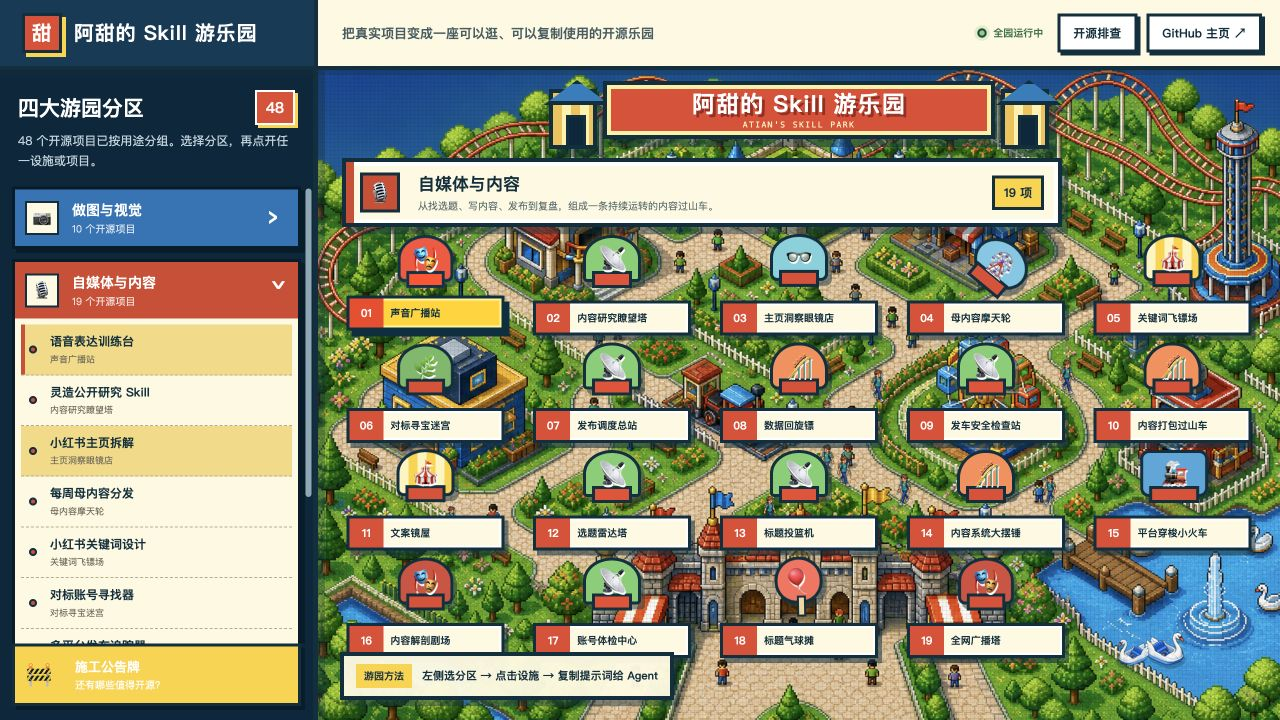
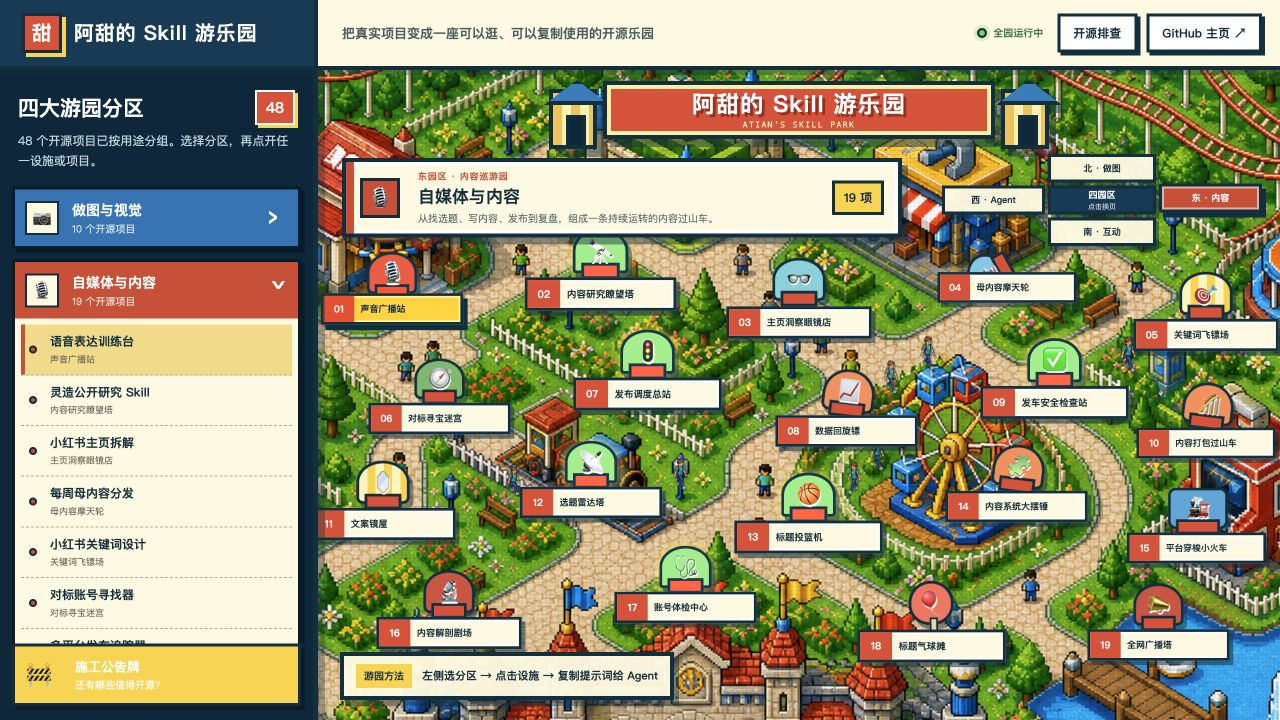
把 Skill 游乐园拆成四个方向园区 (#3)

diff --git a/src/style.css b/src/style.css
@@ -95,10 +95,15 @@ button:focus-visible, a:focus-visible { outline: 4px solid white; box-shadow: 0 
   min-width: 0;
   overflow: hidden;
   isolation: isolate;
-  background: #1876b2 url('./assets/atian-park-world.png') center center / cover no-repeat;
+  background: #1876b2;
   image-rendering: auto;
 }
+.park-map::before { content: ''; position: absolute; inset: -3%; z-index: 0; background: url('./assets/atian-park-world.png') center / 128% auto no-repeat; transition: background-position .55s ease, filter .55s ease, transform .55s ease; }
 .park-map::after { content: ''; position: absolute; inset: 0; z-index: 1; pointer-events: none; background-image: linear-gradient(rgba(6,47,61,.06) 1px, transparent 1px), linear-gradient(90deg, rgba(6,47,61,.06) 1px, transparent 1px); background-size: 4px 4px; mix-blend-mode: multiply; }
+.park-map[data-district="visual"]::before { background-position: 14% 18%; filter: saturate(1.08) brightness(1.02); transform: scale(1.02); }
+.park-map[data-district="media"]::before { background-position: 86% 22%; filter: saturate(1.14) contrast(1.02); transform: scale(1.06); }
+.park-map[data-district="agent"]::before { background-position: 16% 82%; filter: saturate(.92) hue-rotate(7deg); transform: scale(1.05); }
+.park-map[data-district="interactive"]::before { background-position: 84% 84%; filter: saturate(1.2) brightness(1.03); transform: scale(1.03); }
 
 .park-gate { position: absolute; z-index: 24; top: 11px; left: 50%; width: min(500px, calc(100% - 42px)); height: 68px; display: grid; grid-template-columns: 54px 1fr 54px; align-items: end; transform: translateX(-50%); filter: drop-shadow(7px 8px 0 rgba(6,47,61,.48)); }
 .park-gate > div { position: relative; align-self: start; display: grid; place-items: center; min-height: 54px; border: 4px solid var(--ink); padding: 6px 14px; background: var(--red); color: white; box-shadow: inset 0 0 0 4px #ffef9f; text-align: center; }
@@ -110,19 +115,37 @@ button:focus-visible, a:focus-visible { outline: 4px solid white; box-shadow: 0 
 .gate-tower::after { content: ''; position: absolute; left: 13px; bottom: 0; width: 14px; height: 27px; border: 3px solid var(--ink); border-bottom: 0; background: var(--navy-deep); }
 .gate-tower--right { justify-self: end; }
 
-.zone-banner { position: absolute; z-index: 20; top: 88px; left: 24px; right: 24px; max-width: 720px; display: grid; grid-template-columns: 46px 1fr auto; align-items: center; gap: 12px; border: 4px solid var(--ink); padding: 10px 14px; background: var(--cream); box-shadow: inset 0 0 0 4px white, 6px 7px 0 rgba(6,47,61,.45); }
+.zone-banner { position: absolute; z-index: 20; top: 88px; left: 24px; width: min(560px, calc(100% - 370px)); display: grid; grid-template-columns: 46px 1fr auto; align-items: center; gap: 12px; border: 4px solid var(--ink); padding: 8px 14px; background: var(--cream); box-shadow: inset 0 0 0 4px white, 6px 7px 0 rgba(6,47,61,.45); }
 .zone-banner::before { content: ''; position: absolute; left: 0; top: 0; bottom: 0; width: 8px; background: var(--zone); }
 .zone-banner > span { width: 40px; height: 40px; display: grid; place-items: center; border: 3px solid var(--ink); background: var(--zone); font-size: 21px; }
-.zone-banner b, .zone-banner small { display: block; }
+.zone-banner em, .zone-banner b, .zone-banner small { display: block; }
+.zone-banner em { margin-bottom: 2px; color: var(--zone); font-size: 9px; font-style: normal; font-weight: 900; letter-spacing: .08em; }
 .zone-banner b { font-size: 17px; }
 .zone-banner small { margin-top: 3px; font-size: 10px; line-height: 1.4; opacity: .72; }
 .zone-banner strong { border: 3px solid var(--ink); padding: 6px 9px; background: var(--yellow); font-size: 12px; white-space: nowrap; }
 
-.facility-layer { position: absolute; z-index: 12; inset: 165px 18px 62px; display: grid; grid-template-columns: repeat(5, minmax(105px, 1fr)); grid-auto-rows: minmax(86px, 1fr); gap: 7px 8px; align-content: stretch; }
-.facility { position: relative; min-width: 0; min-height: 82px; border: 0; background: transparent; transform: translateY(calc((var(--i) % 3) * 3px)); }
+.district-switcher { position: absolute; z-index: 23; top: 84px; right: 18px; width: 320px; height: 92px; display: grid; grid-template-columns: 1fr 1.05fr 1fr; grid-template-rows: repeat(3, 1fr); gap: 3px; pointer-events: none; }
+.district-link { min-width: 0; display: grid; place-items: center; border: 3px solid var(--ink); padding: 2px 5px; background: rgba(255,249,223,.96); box-shadow: 3px 4px 0 rgba(6,47,61,.5); color: var(--ink); pointer-events: auto; transition: transform .18s, background .18s; }
+.district-link span, .district-link small { display: block; white-space: nowrap; }
+.district-link span { font-size: 9px; font-weight: 900; }
+.district-link small { display: none; }
+.district-link:hover { z-index: 2; transform: translateY(-2px); background: var(--yellow); }
+.district-link.is-current { background: var(--district-color); color: white; box-shadow: inset 0 0 0 2px rgba(255,255,255,.55), 4px 5px 0 var(--ink); }
+.district-link--visual { grid-column: 2; grid-row: 1; }
+.district-link--agent { grid-column: 1; grid-row: 2; }
+.district-link--media { grid-column: 3; grid-row: 2; }
+.district-link--interactive { grid-column: 2; grid-row: 3; }
+.district-center { grid-column: 2; grid-row: 2; display: grid; place-items: center; border: 3px solid var(--ink); background: var(--navy); color: white; box-shadow: 3px 4px 0 rgba(6,47,61,.5); text-align: center; pointer-events: none; }
+.district-center b, .district-center small { display: block; }
+.district-center b { font-size: 9px; }
+.district-center small { font-size: 7px; opacity: .72; }
+
+.facility-layer { position: absolute; z-index: 12; inset: 170px 8px 60px; }
+.facility { position: absolute; left: var(--x); top: var(--y); width: 168px; height: 86px; border: 0; background: transparent; transform: translate(-50%, -50%) scale(var(--s)); transform-origin: center; }
+.district-arrive .facility { animation: facility-arrive .38s both; animation-delay: calc(var(--i) * 14ms); }
 .facility-model { position: absolute; z-index: 1; left: 50%; top: 0; width: 58px; height: 47px; display: grid; place-items: center; transform: translateX(-50%); border: 3px solid var(--ink); border-radius: 50% 50% 7px 7px; background: repeating-linear-gradient(90deg, #fff4bd 0 9px, var(--yellow) 9px 18px); box-shadow: 4px 5px 0 rgba(6,47,61,.48); transform-origin: 50% 100%; }
 .facility-model::before { content: ''; position: absolute; left: 6px; right: 6px; bottom: -9px; height: 11px; border: 3px solid var(--ink); background: var(--red); }
-.facility-model > span { position: relative; z-index: 2; font-size: 25px; line-height: 1; filter: drop-shadow(1px 2px 0 white); }
+.facility-model > span { position: relative; z-index: 2; font-family: "Apple Color Emoji", "Segoe UI Emoji", sans-serif; font-size: 25px; line-height: 1; filter: drop-shadow(1px 2px 0 white); }
 .facility-sign { position: absolute; z-index: 3; left: 50%; bottom: 0; width: min(100%, 158px); min-height: 35px; display: flex; align-items: stretch; transform: translateX(-50%); border: 3px solid var(--ink); background: var(--cream); box-shadow: inset 0 0 0 2px white, 4px 5px 0 rgba(6,47,61,.55); transition: transform .18s, filter .18s; }
 .facility-sign b { min-width: 34px; display: grid; place-items: center; padding: 6px 5px; background: var(--red); color: white; font-size: 11px; }
 .facility-sign span { min-width: 0; display: grid; place-items: center start; overflow: hidden; padding: 6px 7px; font-size: 10px; font-weight: 900; line-height: 1.15; text-overflow: ellipsis; white-space: nowrap; }
@@ -145,6 +168,7 @@ button:focus-visible, a:focus-visible { outline: 4px solid white; box-shadow: 0 
 .facility--studio .facility-model, .facility--workshop .facility-model, .facility--stall .facility-model, .facility--gift .facility-model { animation: shop-bob 3s ease-in-out infinite; }
 
 .moving-visitors, .moving-boats { position: absolute; inset: 0; z-index: 9; pointer-events: none; }
+.park-map:not([data-district="interactive"]) .moving-boats { opacity: 0; }
 .moving-visitor { position: absolute; width: 30px; height: 45px; object-fit: contain; filter: drop-shadow(2px 3px 0 rgba(6,47,61,.35)); animation-duration: 28s; animation-delay: var(--delay); animation-timing-function: linear; animation-iteration-count: infinite; will-change: left, top, transform; }
 .moving-visitor--1, .moving-visitor--4, .moving-visitor--7, .moving-visitor--10 { animation-name: visitor-route-one; }
 .moving-visitor--2, .moving-visitor--5, .moving-visitor--8 { animation-name: visitor-route-two; }
@@ -241,6 +265,7 @@ button:focus-visible, a:focus-visible { outline: 4px solid white; box-shadow: 0 
 @keyframes boat-bob { 0%,100% { transform: translateX(-50%) translateY(1px) rotate(-2deg); } 50% { transform: translateX(-50%) translateY(-4px) rotate(2deg); } }
 @keyframes game-pop { 0%,100% { transform: translateX(-50%) scale(.94); } 50% { transform: translateX(-50%) scale(1.05); } }
 @keyframes maze-breathe { 0%,100% { transform: translateX(-50%) scale(.96); } 50% { transform: translateX(-50%) scale(1.03); } }
+@keyframes facility-arrive { from { opacity: 0; filter: blur(3px); } to { opacity: 1; filter: blur(0); } }
 
 @media (max-width: 1100px) {
   .park-app { grid-template-columns: 280px minmax(0,1fr); }
@@ -248,8 +273,9 @@ button:focus-visible, a:focus-visible { outline: 4px solid white; box-shadow: 0 
   .topbar > p { display: none; }
   .topbar nav { grid-column: 2 / 4; justify-self: end; }
   .park-status { display: none; }
-  .facility-layer { grid-template-columns: repeat(4, minmax(105px, 1fr)); }
-  .facility { transform: scale(.88) translateY(calc((var(--i) % 3) * 3px)); }
+  .zone-banner { width: min(450px, calc(100% - 285px)); }
+  .district-switcher { right: 10px; width: 260px; }
+  .facility { width: 150px; transform: translate(-50%, -50%) scale(var(--s)); }
   .detail-drawer { width: min(520px, calc(100vw - 314px)); }
 }
 
@@ -265,18 +291,28 @@ button:focus-visible, a:focus-visible { outline: 4px solid white; box-shadow: 0 
   .sidebar-heading { padding-top: 15px; }
   .project-groups { max-height: 235px; }
   .audit-button { display: none; }
-  .park-map { height: 1040px; background-position: 48% center; }
+  .park-map { height: 1050px; }
+  .park-map::before { inset: 0; background-size: auto 100%; }
+  .park-map[data-district="media"] { height: 1620px; }
+  .park-map[data-district="agent"] { height: 850px; }
+  .park-map[data-district="interactive"] { height: 1260px; }
   .park-gate { top: 12px; width: calc(100% - 24px); height: 61px; grid-template-columns: 43px 1fr 43px; }
   .park-gate > div { min-height: 50px; padding: 5px 6px; }
   .park-gate strong { font-size: 15px; }
   .gate-tower { width: 40px; height: 52px; }
   .gate-tower::before { left: -7px; width: 46px; }
   .gate-tower::after { left: 10px; }
-  .zone-banner { top: 80px; left: 12px; right: 12px; grid-template-columns: 39px 1fr auto; padding: 8px 10px; }
+  .zone-banner { top: 80px; left: 12px; width: calc(100% - 24px); grid-template-columns: 39px 1fr auto; padding: 8px 10px; }
   .zone-banner > span { width: 34px; height: 34px; }
   .zone-banner small { display: none; }
-  .facility-layer { inset: 150px 7px 64px; grid-template-columns: repeat(3, minmax(100px, 1fr)); grid-auto-rows: minmax(110px, 1fr); gap: 4px; }
-  .facility { transform: scale(.86) translateY(calc((var(--i) % 3) * 3px)); transform-origin: center; }
+  .district-switcher { top: 148px; left: 12px; right: 12px; width: auto; height: 52px; display: grid; grid-template-columns: repeat(4, 1fr); grid-template-rows: 1fr; gap: 5px; }
+  .district-link, .district-link--visual, .district-link--agent, .district-link--media, .district-link--interactive { grid-column: auto; grid-row: 1; }
+  .district-link { min-height: 48px; padding: 4px 2px; }
+  .district-link span { font-size: 8px; }
+  .district-link small { display: none; }
+  .district-center { display: none; }
+  .facility-layer { inset: 220px 0 76px; }
+  .facility { left: var(--mx); top: var(--my); width: 154px; transform: translate(-50%, -50%) scale(var(--s)); }
   .facility-sign span { font-size: 9px; }
   .moving-visitor { width: 24px; height: 36px; }
   .swan { width: 52px; }

diff --git a/src/main.js b/src/main.js
@@ -4,31 +4,81 @@ import swanSprite from './assets/swan-boat.png'
 import { agentPrompt, categories, openSourceAudit, projects } from './projects.js'
 
 const app = document.querySelector('#app')
-const state = { category: 'visual', project: projects[0], audit: false }
+const initialCategory = categories.some(category => category.id === location.hash.slice(1)) ? location.hash.slice(1) : 'visual'
+const state = { category: initialCategory, project: projects.find(item => item.category === initialCategory), audit: false }
+
+const districts = {
+  visual: { direction: '北园区', short: '北 · 做图', scene: '灵感造物园' },
+  media: { direction: '东园区', short: '东 · 内容', scene: '内容巡游园' },
+  agent: { direction: '西园区', short: '西 · Agent', scene: '知识探索园' },
+  interactive: { direction: '南园区', short: '南 · 互动', scene: '游戏体验园' },
+}
+
+const districtLayouts = {
+  visual: [
+    [10,28,22,7,.92],[31,12,70,14,1],[57,22,30,25,.9],[82,12,76,34,.98],[90,40,46,44,.88],
+    [69,48,20,53,.95],[43,38,71,61,.9],[18,52,35,70,.92],[34,75,78,80,.96],[72,78,45,91,.92],
+  ],
+  media: [
+    [7,12,22,4,.9],[29,7,72,9,.96],[50,14,31,14,.92],[72,6,78,19,.88],[93,17,48,24,.92],
+    [12,37,17,30,.9],[34,31,67,35,.94],[55,40,31,40,.9],[77,33,80,46,.94],[93,43,48,51,.88],
+    [6,62,19,56,.92],[28,57,70,61,.9],[51,65,34,66,.94],[73,58,81,71,.9],[92,68,51,76,.88],
+    [13,88,20,82,.92],[38,82,69,87,.9],[64,91,35,92,.94],[88,91,79,97,.9],
+  ],
+  agent: [
+    [14,22,25,12,.96],[40,10,72,25,.9],[72,24,34,39,1],[84,56,75,54,.92],[56,70,25,70,.96],[24,78,65,85,.9],
+  ],
+  interactive: [
+    [8,16,22,6,.92],[35,8,72,14,.98],[63,18,30,22,.9],[90,9,74,31,.95],
+    [17,41,45,40,.88],[48,34,20,49,.96],[78,44,72,57,.9],
+    [8,67,30,66,.94],[37,61,75,74,.9],[68,70,45,82,.96],[94,63,20,90,.9],
+    [28,91,70,95,.94],[82,94,43,98,.9],
+  ],
+}
+
+const projectMarks = {
+  'food-sticker-demo': '🍦', 'knowledge-card-journal-skill': '📚', 'solo-ai-paper-collage': '✂',
+  'codex-dream-skin-studio': '🎨', 'handdrawn-route-map-card-skill': '🗺', 'wechat-article-image-pack-skill': '🖼',
+  'xhs-cover-lab-open-skill': '🪧', 'food-recipe-flowchart-skill': '🍳', 'wechat-knowledge-infographic-cover-skill': '📊',
+  'ip-persona-sticker-card-grid-skill': '🧸', 'voice-expression-workbench': '🎙', 'lingzao-skill': '🔭',
+  'xhs-profile-breakdown-skill': '👓', 'weekly-content-motherpack-distributor': '🎡', 'xhs-keyword-design-skill': '🎯',
+  'xhs-benchmark-account-finder-skill': '🧭', 'multi-platform-publishing-tracker': '🚦', 'xhs-postpublish-review-skill': '📈',
+  'xhs-prepublish-check-skill': '✅', 'xhs-keyword-to-content-package-skill': '🎢', 'benchmark-copy-rewrite-skill': '🪞',
+  'benchmark-topic-radar-skill': '📡', 'topic-title-clarity-check-skill': '🏀', 'content-system-map-skill': '🧩',
+  'multi-platform-publishing-tracker-skill': '🚂', 'single-note-breakdown-skill': '🔬', 'xhs-account-diagnosis-open-skill': '🩺',
+  'xhs-title-planner-skill': '🎈', 'full-web-sync-open-skill': '📣', 'desktop-pet-replica': '🤖',
+  'tuyu-language-notebook': '🌍', 'agent-knowledge-space': '🌌', 'content-graph-builder-skill': '🕸',
+  'codex-thread-console': '🗼', 'interactive-rhythm-calendar': '🗓', 'atian-playground': '🎟',
+  'penang-foodmap-demo': '⛵', 'air-magic-book-demo': '📖', 'gesture-curtain-demo': '🎭',
+  'particle-music-box-demo': '🎵', 'wordpop-junior-english': '🔤', 'quiz-site-builder-skill': '🧠',
+  'gesture-music-grid-demo': '🍓', 'air-fruit-slicer-demo': '🍉', 'opc-test': '🧑💼',
+  'bangkok-michelin-map': '🍜', 'cute-stickers': '🐻', 'my-ai-web': '🕹',
+}
 
 const attractionOverrides = {
-  'food-sticker-demo': ['icecream', '🍦'],
-  'xhs-profile-breakdown-skill': ['glasses', '👓'],
-  'xhs-title-planner-skill': ['balloon', '🎈'],
-  'ip-persona-sticker-card-grid-skill': ['gift', '🎁'],
-  'penang-foodmap-demo': ['boat', '⛵'],
-  'desktop-pet-replica': ['parade', '🤖'],
+  'food-sticker-demo': 'icecream',
+  'xhs-profile-breakdown-skill': 'glasses',
+  'xhs-title-planner-skill': 'balloon',
+  'ip-persona-sticker-card-grid-skill': 'gift',
+  'penang-foodmap-demo': 'boat',
+  'desktop-pet-replica': 'parade',
 }
 
 function attractionFor(item) {
-  if (attractionOverrides[item.id]) return attractionOverrides[item.id]
+  const icon = projectMarks[item.id] || '🎪'
+  if (attractionOverrides[item.id]) return [attractionOverrides[item.id], icon]
   const name = `${item.title}${item.facility}`
-  if (/照相|封面|画廊|海报|贴纸|拼贴|配图/.test(name)) return ['studio', '📷']
-  if (/火车|观光车|穿梭/.test(name)) return ['train', '🚂']
-  if (/摩天轮|转盘|旋转木马|飞椅/.test(name)) return ['spin', '🎡']
-  if (/过山车|大摆锤|飞船|回旋镖/.test(name)) return ['ride', '🎢']
-  if (/剧场|舞台|广播|音乐/.test(name)) return ['stage', '🎭']
-  if (/迷宫|知识空间|图谱/.test(name)) return ['maze', '🌿']
-  if (/塔|雷达|总站|中心|检查/.test(name)) return ['tower', '📡']
-  if (/水上|漂流|船/.test(name)) return ['boat', '🦢']
-  if (/游戏|街机|弹跳|投篮|碰碰车/.test(name)) return ['game', '🎮']
-  if (/工坊|实验|工作室|训练/.test(name)) return ['workshop', '🛠']
-  return ['stall', '🎪']
+  if (/照相|封面|画廊|海报|贴纸|拼贴|配图/.test(name)) return ['studio', icon]
+  if (/火车|观光车|穿梭/.test(name)) return ['train', icon]
+  if (/摩天轮|转盘|旋转木马|飞椅/.test(name)) return ['spin', icon]
+  if (/过山车|大摆锤|飞船|回旋镖/.test(name)) return ['ride', icon]
+  if (/剧场|舞台|广播|音乐/.test(name)) return ['stage', icon]
+  if (/迷宫|知识空间|图谱/.test(name)) return ['maze', icon]
+  if (/塔|雷达|总站|中心|检查/.test(name)) return ['tower', icon]
+  if (/水上|漂流|船/.test(name)) return ['boat', icon]
+  if (/游戏|街机|弹跳|投篮|碰碰车/.test(name)) return ['game', icon]
+  if (/工坊|实验|工作室|训练/.test(name)) return ['workshop', icon]
+  return ['stall', icon]
 }
 
 const categoryCount = id => projects.filter(project => project.category === id).length
@@ -60,12 +110,21 @@ function hotspotMarkup() {
   const current = projects.filter(project => project.category === state.category)
   return current.map((item, index) => {
     const [kind, icon] = attractionFor(item)
+    const [x, y, mx, my, scale] = districtLayouts[state.category][index]
     return `
-    <button class="facility facility--${kind} ${state.project?.id === item.id ? 'is-selected' : ''}" style="--i:${index}" data-project="${item.id}" aria-label="打开项目：${item.title}，设施：${item.facility}">
+    <button class="facility facility--${kind} ${state.project?.id === item.id ? 'is-selected' : ''}" style="--i:${index};--x:${x}%;--y:${y}%;--mx:${mx}%;--my:${my}%;--s:${scale}" data-project="${item.id}" aria-label="打开项目：${item.title}，设施：${item.facility}">
       <span class="facility-model" aria-hidden="true"><span>${icon}</span></span>
       <span class="facility-sign"><b>${String(index + 1).padStart(2, '0')}</b><span>${item.facility}</span></span>
     </button>`
   }).join('')
+}
+
+function districtNavMarkup() {
+  return `
+    <nav class="district-switcher" aria-label="切换四个园区页面">
+      ${categories.map(category => `<button class="district-link district-link--${category.id} ${state.category === category.id ? 'is-current' : ''}" data-category="${category.id}" style="--district-color:${category.color}"><span>${districts[category.id].short}</span><small>${category.name}</small></button>`).join('')}
+      <span class="district-center"><b>四园区</b><small>点击换页</small></span>
+    </nav>`
 }
 
 function tutorialMarkup(item) {
@@ -112,7 +171,7 @@ app.innerHTML = `
       <button class="audit-button" data-audit><span>🚧</span><span><b>施工公告牌</b><small>还有哪些值得开源？</small></span></button>
     </aside>
 
-    <section class="park-map" id="park" aria-label="阿甜游乐园地图">
+    <section class="park-map" id="park" data-district="${state.category}" aria-label="阿甜游乐园地图">
       <div class="park-gate" aria-label="阿甜的 Skill 游乐园大门">
         <i class="gate-tower gate-tower--left"></i>
         <div><strong>阿甜的 Skill 游乐园</strong><small>ATIAN'S SKILL PARK</small></div>
@@ -120,9 +179,10 @@ app.innerHTML = `
       </div>
       <div class="zone-banner" style="--zone:${categoryById(state.category).color}">
         <span>${categoryById(state.category).icon}</span>
-        <div><b data-zone-name>${categoryById(state.category).name}</b><small data-zone-intro>${categoryById(state.category).intro}</small></div>
+        <div><em data-zone-direction>${districts[state.category].direction} · ${districts[state.category].scene}</em><b data-zone-name>${categoryById(state.category).name}</b><small data-zone-intro>${categoryById(state.category).intro}</small></div>
         <strong data-zone-count>${categoryCount(state.category)} 项</strong>
       </div>
+      <div data-district-switcher>${districtNavMarkup()}</div>
       <div class="facility-layer" data-facilities>${hotspotMarkup()}</div>
       <div class="moving-visitors" aria-hidden="true">
         ${Array.from({length: 10}, (_, index) => `<img src="${visitorSprite}" class="moving-visitor moving-visitor--${index + 1}" alt="" style="--delay:-${index * 3.1}s">`).join('')}
@@ -146,6 +206,8 @@ const sidebar = document.querySelector('[data-sidebar]')
 const facilities = document.querySelector('[data-facilities]')
 const drawer = document.querySelector('[data-drawer]')
 const detail = document.querySelector('[data-detail]')
+const parkMap = document.querySelector('.park-map')
+const districtSwitcher = document.querySelector('[data-district-switcher]')
 
 function renderDetail(open = true) {
   if (state.audit) {
@@ -169,12 +231,18 @@ function renderCategory() {
   sidebar.innerHTML = sidebarMarkup()
   sidebar.scrollTop = 0
   facilities.innerHTML = hotspotMarkup()
+  districtSwitcher.innerHTML = districtNavMarkup()
+  parkMap.dataset.district = category.id
+  parkMap.classList.remove('district-arrive')
+  requestAnimationFrame(() => parkMap.classList.add('district-arrive'))
   const banner = document.querySelector('.zone-banner')
   banner.style.setProperty('--zone', category.color)
   banner.querySelector('span').textContent = category.icon
   document.querySelector('[data-zone-name]').textContent = category.name
+  document.querySelector('[data-zone-direction]').textContent = `${districts[category.id].direction} · ${districts[category.id].scene}`
   document.querySelector('[data-zone-intro]').textContent = category.intro
   document.querySelector('[data-zone-count]').textContent = `${categoryCount(category.id)} 项`
+  document.title = `${districts[category.id].direction} · ${category.name}｜阿甜的 Skill 游乐园`
 }
 
 function selectProject(id) {
@@ -183,6 +251,7 @@ function selectProject(id) {
   state.project = item
   state.category = item.category
   state.audit = false
+  history.replaceState(null, '', `#${item.category}`)
   renderCategory()
   renderDetail()
 }
@@ -191,6 +260,7 @@ function selectCategory(id) {
   state.category = id
   state.project = projects.find(project => project.category === id)
   state.audit = false
+  history.replaceState(null, '', `#${id}`)
   renderCategory()
   renderDetail(false)
 }

diff --git a/README.md b/README.md
@@ -9,8 +9,8 @@
 ## 它能做什么
 
 - 收录 48 个已经公开的 GitHub 项目。
-- 按「做图与视觉 / 自媒体与内容 / Agent 与知识 / 互动网站与游戏」分区浏览。
-- 每个分区的全部项目都会映射成与能力相关的动态娱乐设施，而不是普通项目卡片。
+- 按「北园区 · 做图与视觉 / 东园区 · 自媒体与内容 / 西园区 · Agent 与知识 / 南园区 · 互动网站与游戏」四个独立园区页面浏览。
+- 四个园区使用不同方向的地图视角和错落动线；每个项目都有与能力相关的专属标志与动态娱乐设施，而不是规则排列的普通项目卡片。
 - 每个项目提供 GitHub 入口、三步教程和可复制的 Agent 启动提示词。
 - 人物沿道路行走，天鹅船在湖面移动，摩天轮、过山车、气球摊、眼镜店和冰淇淋车等设施持续运转。
 - 包含一份开源排查公告牌，用来判断下一批值得公开的项目。

diff --git a/README_EN.md b/README_EN.md
@@ -8,7 +8,8 @@ A pixel-art amusement park that turns A Tian's real open-source Skills, websites
 
 ## What it does
 
-- Lists 48 verified public GitHub repositories.
+- Lists 48 verified public GitHub repositories across four switchable park pages: Visual North, Media East, Agent West, and Interactive South.
+- Each district uses a different map direction and an organic attraction layout, with a distinct project mark and animated facility for every repository.
 - Groups them into Visual Creation, Creator Content, Agent & Knowledge, and Interactive Websites & Games.
 - Maps every project in the selected zone to a related animated amusement-park attraction.
 - Provides a three-step tutorial, GitHub link, and Agent launch prompt for each project.
